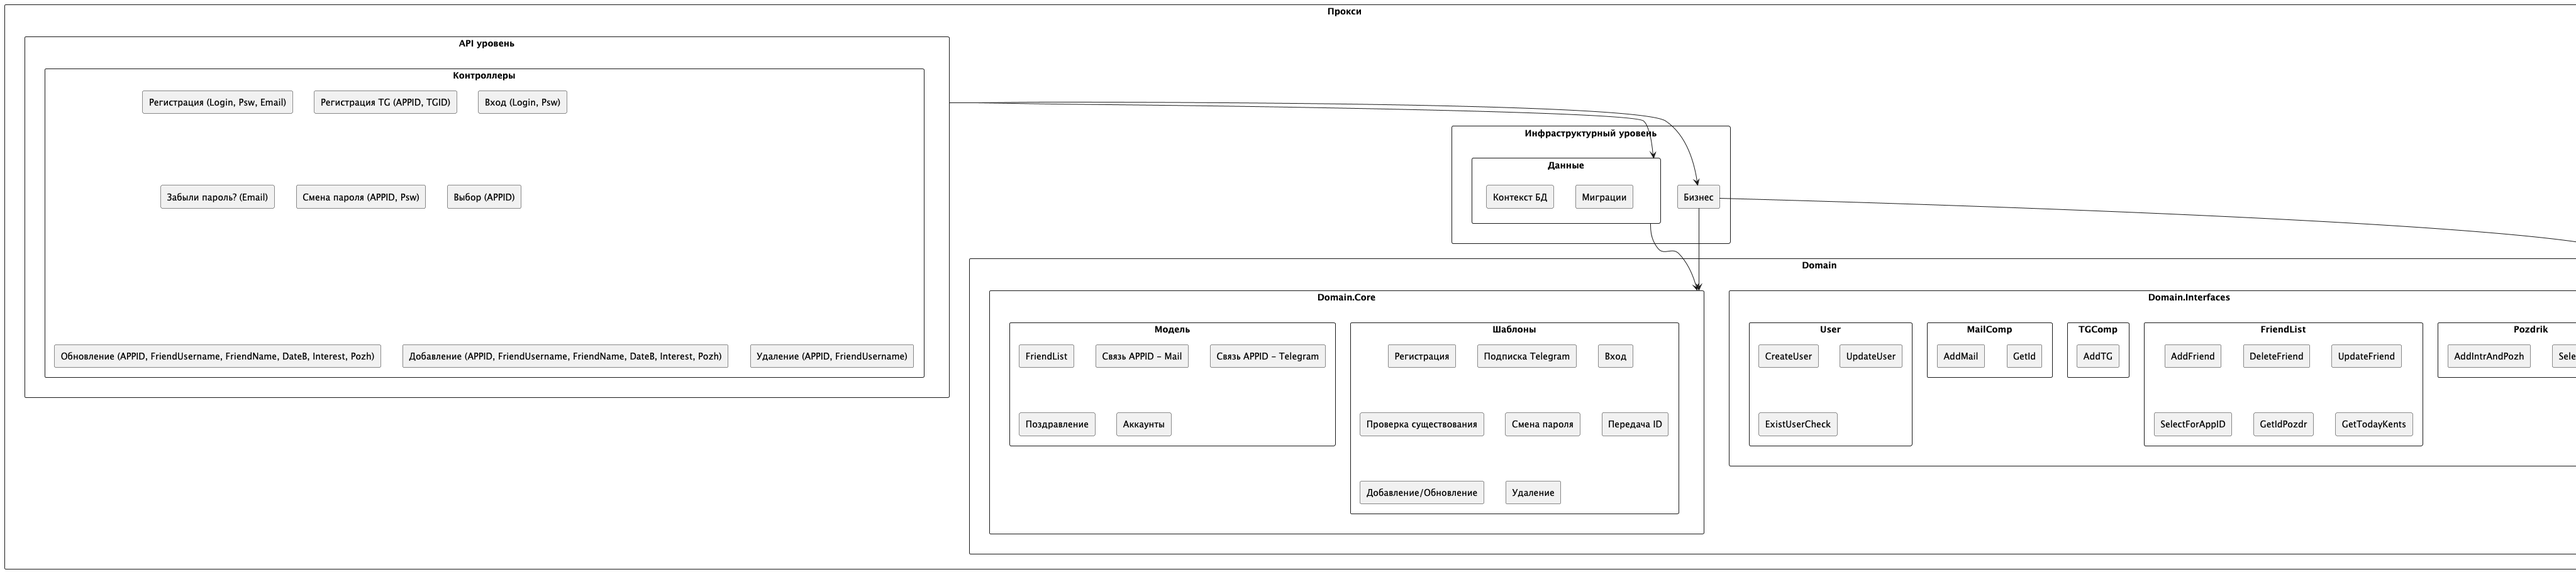
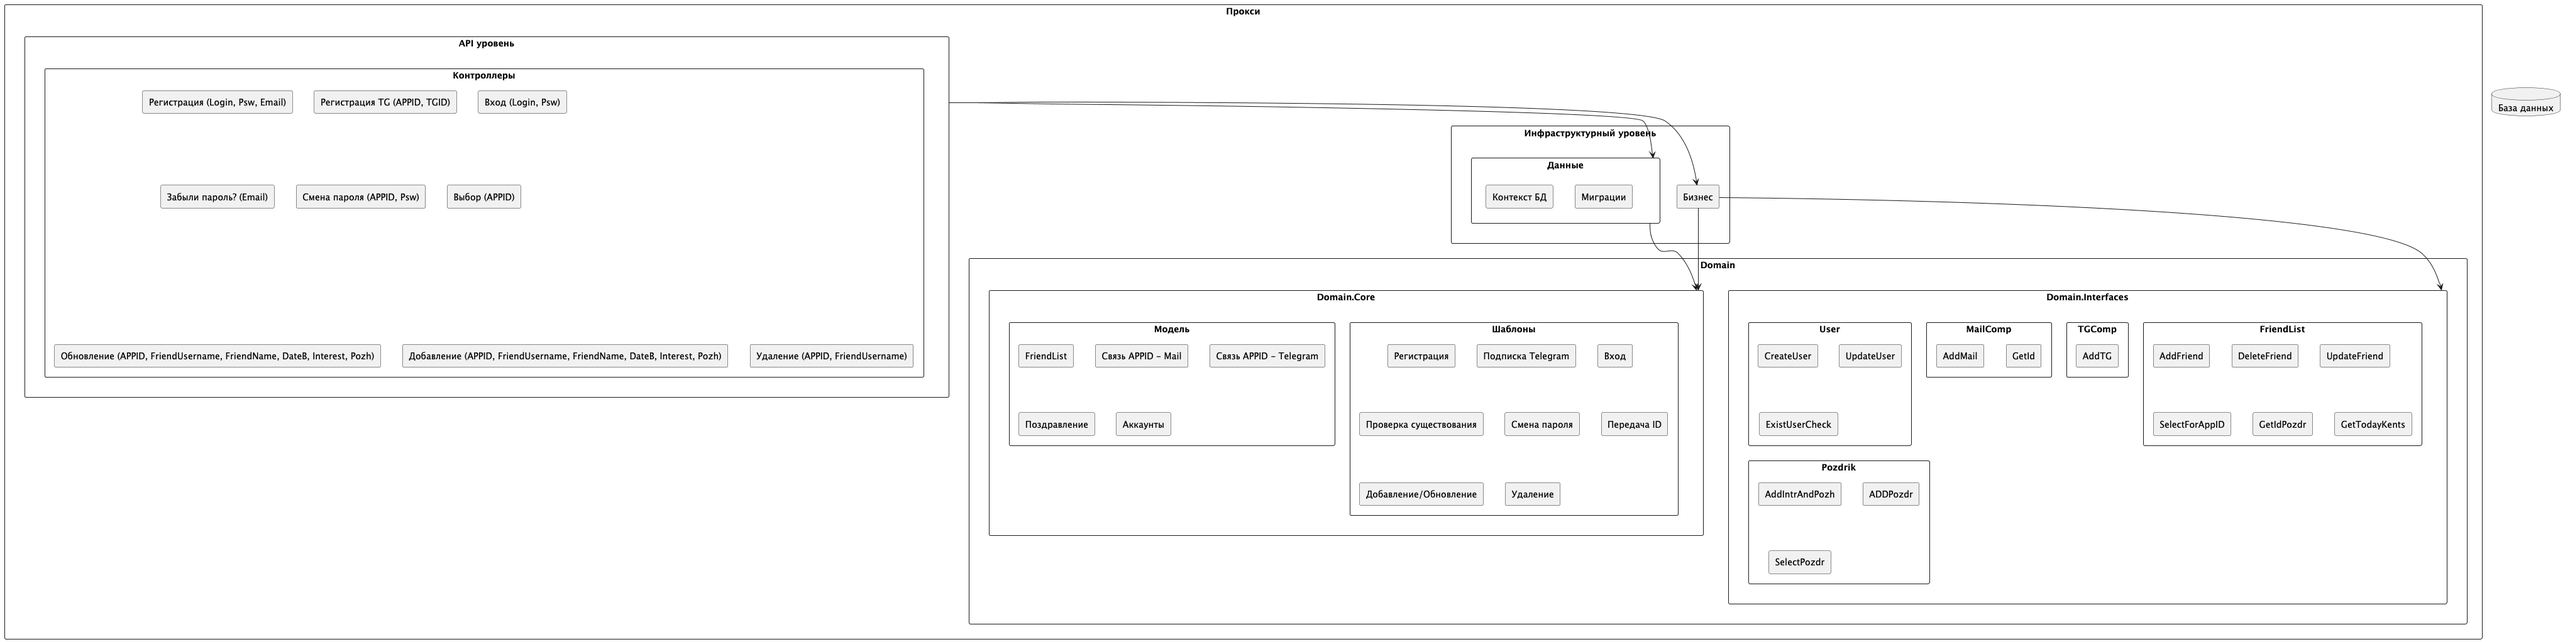
добавил свагер

diff --git a/Infrastructure.DATA/Migrations/AppContextModelSnapshot.cs b/Infrastructure.DATA/Migrations/AppContextModelSnapshot.cs
@@ -22,7 +22,7 @@ namespace Infrastructure.Migrations
 
             NpgsqlModelBuilderExtensions.UseIdentityByDefaultColumns(modelBuilder);
 
-            modelBuilder.Entity("Infrastructure.Models.FriendList", b =>
+            modelBuilder.Entity("Domain.Models.FriendList", b =>
                 {
                     b.Property<Guid>("Appid")
                         .HasColumnType("uuid")
@@ -53,7 +53,7 @@ namespace Infrastructure.Migrations
                     b.ToTable("friend_list", (string)null);
                 });
 
-            modelBuilder.Entity("Infrastructure.Models.MailComprehension", b =>
+            modelBuilder.Entity("Domain.Models.MailComprehension", b =>
                 {
                     b.Property<Guid>("Appid")
                         .HasColumnType("uuid")
@@ -72,7 +72,7 @@ namespace Infrastructure.Migrations
                     b.ToTable("mail_comprehensions", (string)null);
                 });
 
-            modelBuilder.Entity("Infrastructure.Models.Pozdrik", b =>
+            modelBuilder.Entity("Domain.Models.Pozdrik", b =>
                 {
                     b.Property<int>("IdPozdr")
                         .ValueGeneratedOnAdd()
@@ -99,7 +99,7 @@ namespace Infrastructure.Migrations
                     b.ToTable("pozdrik", (string)null);
                 });
 
-            modelBuilder.Entity("Infrastructure.Models.TgComprehension", b =>
+            modelBuilder.Entity("Domain.Models.TgComprehension", b =>
                 {
                     b.Property<Guid>("Appid")
                         .HasColumnType("uuid")
@@ -117,7 +117,7 @@ namespace Infrastructure.Migrations
                     b.ToTable("tg_comprehensions", (string)null);
                 });
 
-            modelBuilder.Entity("Infrastructure.Models.User", b =>
+            modelBuilder.Entity("Domain.Models.User", b =>
                 {
                     b.Property<Guid>("Appid")
                         .ValueGeneratedOnAdd()
@@ -144,16 +144,16 @@ namespace Infrastructure.Migrations
                     b.ToTable("users", (string)null);
                 });
 
-            modelBuilder.Entity("Infrastructure.Models.FriendList", b =>
+            modelBuilder.Entity("Domain.Models.FriendList", b =>
                 {
-                    b.HasOne("Infrastructure.Models.User", "App")
+                    b.HasOne("Domain.Models.User", "App")
                         .WithMany()
                         .HasForeignKey("Appid")
                         .OnDelete(DeleteBehavior.Cascade)
                         .IsRequired()
                         .HasConstraintName("friend_list_appid_fkey");
 
-                    b.HasOne("Infrastructure.Models.Pozdrik", "IdPozdrNavigation")
+                    b.HasOne("Domain.Models.Pozdrik", "IdPozdrNavigation")
                         .WithMany()
                         .HasForeignKey("IdPozdr")
                         .OnDelete(DeleteBehavior.SetNull)
@@ -164,9 +164,9 @@ namespace Infrastructure.Migrations
                     b.Navigation("IdPozdrNavigation");
                 });
 
-            modelBuilder.Entity("Infrastructure.Models.MailComprehension", b =>
+            modelBuilder.Entity("Domain.Models.MailComprehension", b =>
                 {
-                    b.HasOne("Infrastructure.Models.User", "App")
+                    b.HasOne("Domain.Models.User", "App")
                         .WithMany()
                         .HasForeignKey("Appid")
                         .OnDelete(DeleteBehavior.Cascade)
@@ -176,9 +176,9 @@ namespace Infrastructure.Migrations
                     b.Navigation("App");
                 });
 
-            modelBuilder.Entity("Infrastructure.Models.TgComprehension", b =>
+            modelBuilder.Entity("Domain.Models.TgComprehension", b =>
                 {
-                    b.HasOne("Infrastructure.Models.User", "App")
+                    b.HasOne("Domain.Models.User", "App")
                         .WithMany()
                         .HasForeignKey("Appid")
                         .OnDelete(DeleteBehavior.Cascade)

diff --git a/Infrastructure.DATA/ApplicationContext.cs b/Infrastructure.DATA/ApplicationContext.cs
@@ -40,10 +40,10 @@ public partial class ApplicationContext : DbContext
     protected override void OnConfiguring(DbContextOptionsBuilder optionsBuilder)
 #warning To protect potentially sensitive information in your connection string, you should move it out of source code. You can avoid scaffolding the connection string by using the Name= syntax to read it from configuration - see https: //go.microsoft.com/fwlink/?linkid=2131148. For more guidance on storing connection strings, see https://go.microsoft.com/fwlink/?LinkId=723263.
     {
-        if (!optionsBuilder.IsConfigured)
-        {
-            optionsBuilder.UseNpgsql(_connectionString);
-        }
+        // if (!optionsBuilder.IsConfigured)
+        // {
+        //     optionsBuilder.UseNpgsql(_connectionString);
+        // }
 #if DEBUG
         if (!optionsBuilder.IsConfigured)
         {
@@ -73,7 +73,9 @@ public partial class ApplicationContext : DbContext
             entity.ToTable("friend_list");
 
             entity.Property(e => e.Appid).HasColumnName("appid");
-            entity.Property(e => e.FriendUsername).HasColumnName("friend_username");
+            entity.Property(e => e.FriendUsername)
+                .HasColumnName("friend_username")
+                .IsRequired();
             entity.Property(e => e.FriendName).HasColumnName("friend_name");
             entity.Property(e => e.DateBirth).HasColumnName("date_birth");
             entity.Property(e => e.IdPozdr).HasColumnName("id_pozdr");

diff --git a/Domain.Interfaces/IRepository/IFriendRepository.cs b/Domain.Interfaces/IRepository/IFriendRepository.cs
@@ -7,8 +7,8 @@ public interface IFriendRepository
     Task<FriendList> AddFriendInList(FriendList friendList);
     Task<FriendList> DeleteFriendFromList(FriendList friendList);
     Task<FriendList> UpdateFriendInList(FriendList friendList);
-    Task<List<FriendList>> SelectByAppId(FriendList friendList);
-    Task<int?> GetPozdrikId(FriendList friendList);
+    Task<List<FriendList>> SelectByAppId( Guid appid);
+    Task<int?> GetPozdrikId( string username, Guid appid);
     Task<List<FriendList>> SelectByAppId();
     
 }

diff --git a/ProxyAPILevel/Program.cs b/ProxyAPILevel/Program.cs
@@ -1,11 +1,17 @@
+using Swashbuckle.AspNetCore.Swagger;
+
 var builder = WebApplication.CreateBuilder(args);
+
 
 // Add services to the container.
 // Learn more about configuring OpenAPI at https://aka.ms/aspnet/openapi
 builder.Services.AddOpenApi();
+builder.Services.AddEndpointsApiExplorer();
+builder.Services.AddSwaggerGen();
 
 var app = builder.Build();
-
+app.UseSwagger();
+app.UseSwaggerUI();
 // Configure the HTTP request pipeline.
 if (app.Environment.IsDevelopment())
 {

diff --git a/Domain.Interfaces/IRepository/IPozdrikRepository.cs b/Domain.Interfaces/IRepository/IPozdrikRepository.cs
@@ -1,0 +1,10 @@
+using Domain.Models;
+
+namespace Domain.Interfaces;
+
+public interface IPozdrikRepository
+{
+    Task<Pozdrik> AddIntAndPozh(Pozdrik pozdrik);
+    Task<Pozdrik> SelectPozdrik(int idPozdr);
+    Task<Pozdrik> AddPozdr(string pozdr);
+}

diff --git a/Domain.Interfaces/IRepository/IMailComprRepository.cs b/Domain.Interfaces/IRepository/IMailComprRepository.cs
@@ -1,0 +1,10 @@
+using System.Net.Mail;
+using Domain.Models;
+
+namespace Domain.Interfaces;
+
+public interface IMailComprRepository
+{
+    Task<MailComprehension> AddMail(Guid appid, string mail);
+    Task<Guid> GETIdByMail(Guid appid);
+}

diff --git a/Domain.Interfaces/IRepository/ITGComprRepository.cs b/Domain.Interfaces/IRepository/ITGComprRepository.cs
@@ -1,0 +1,9 @@
+using Domain.Models;
+
+namespace Domain.Interfaces;
+
+public interface ITgComprRepository
+{
+    Task<TgComprehension> AddTg(Guid appid, long telegramId);
+    
+}
